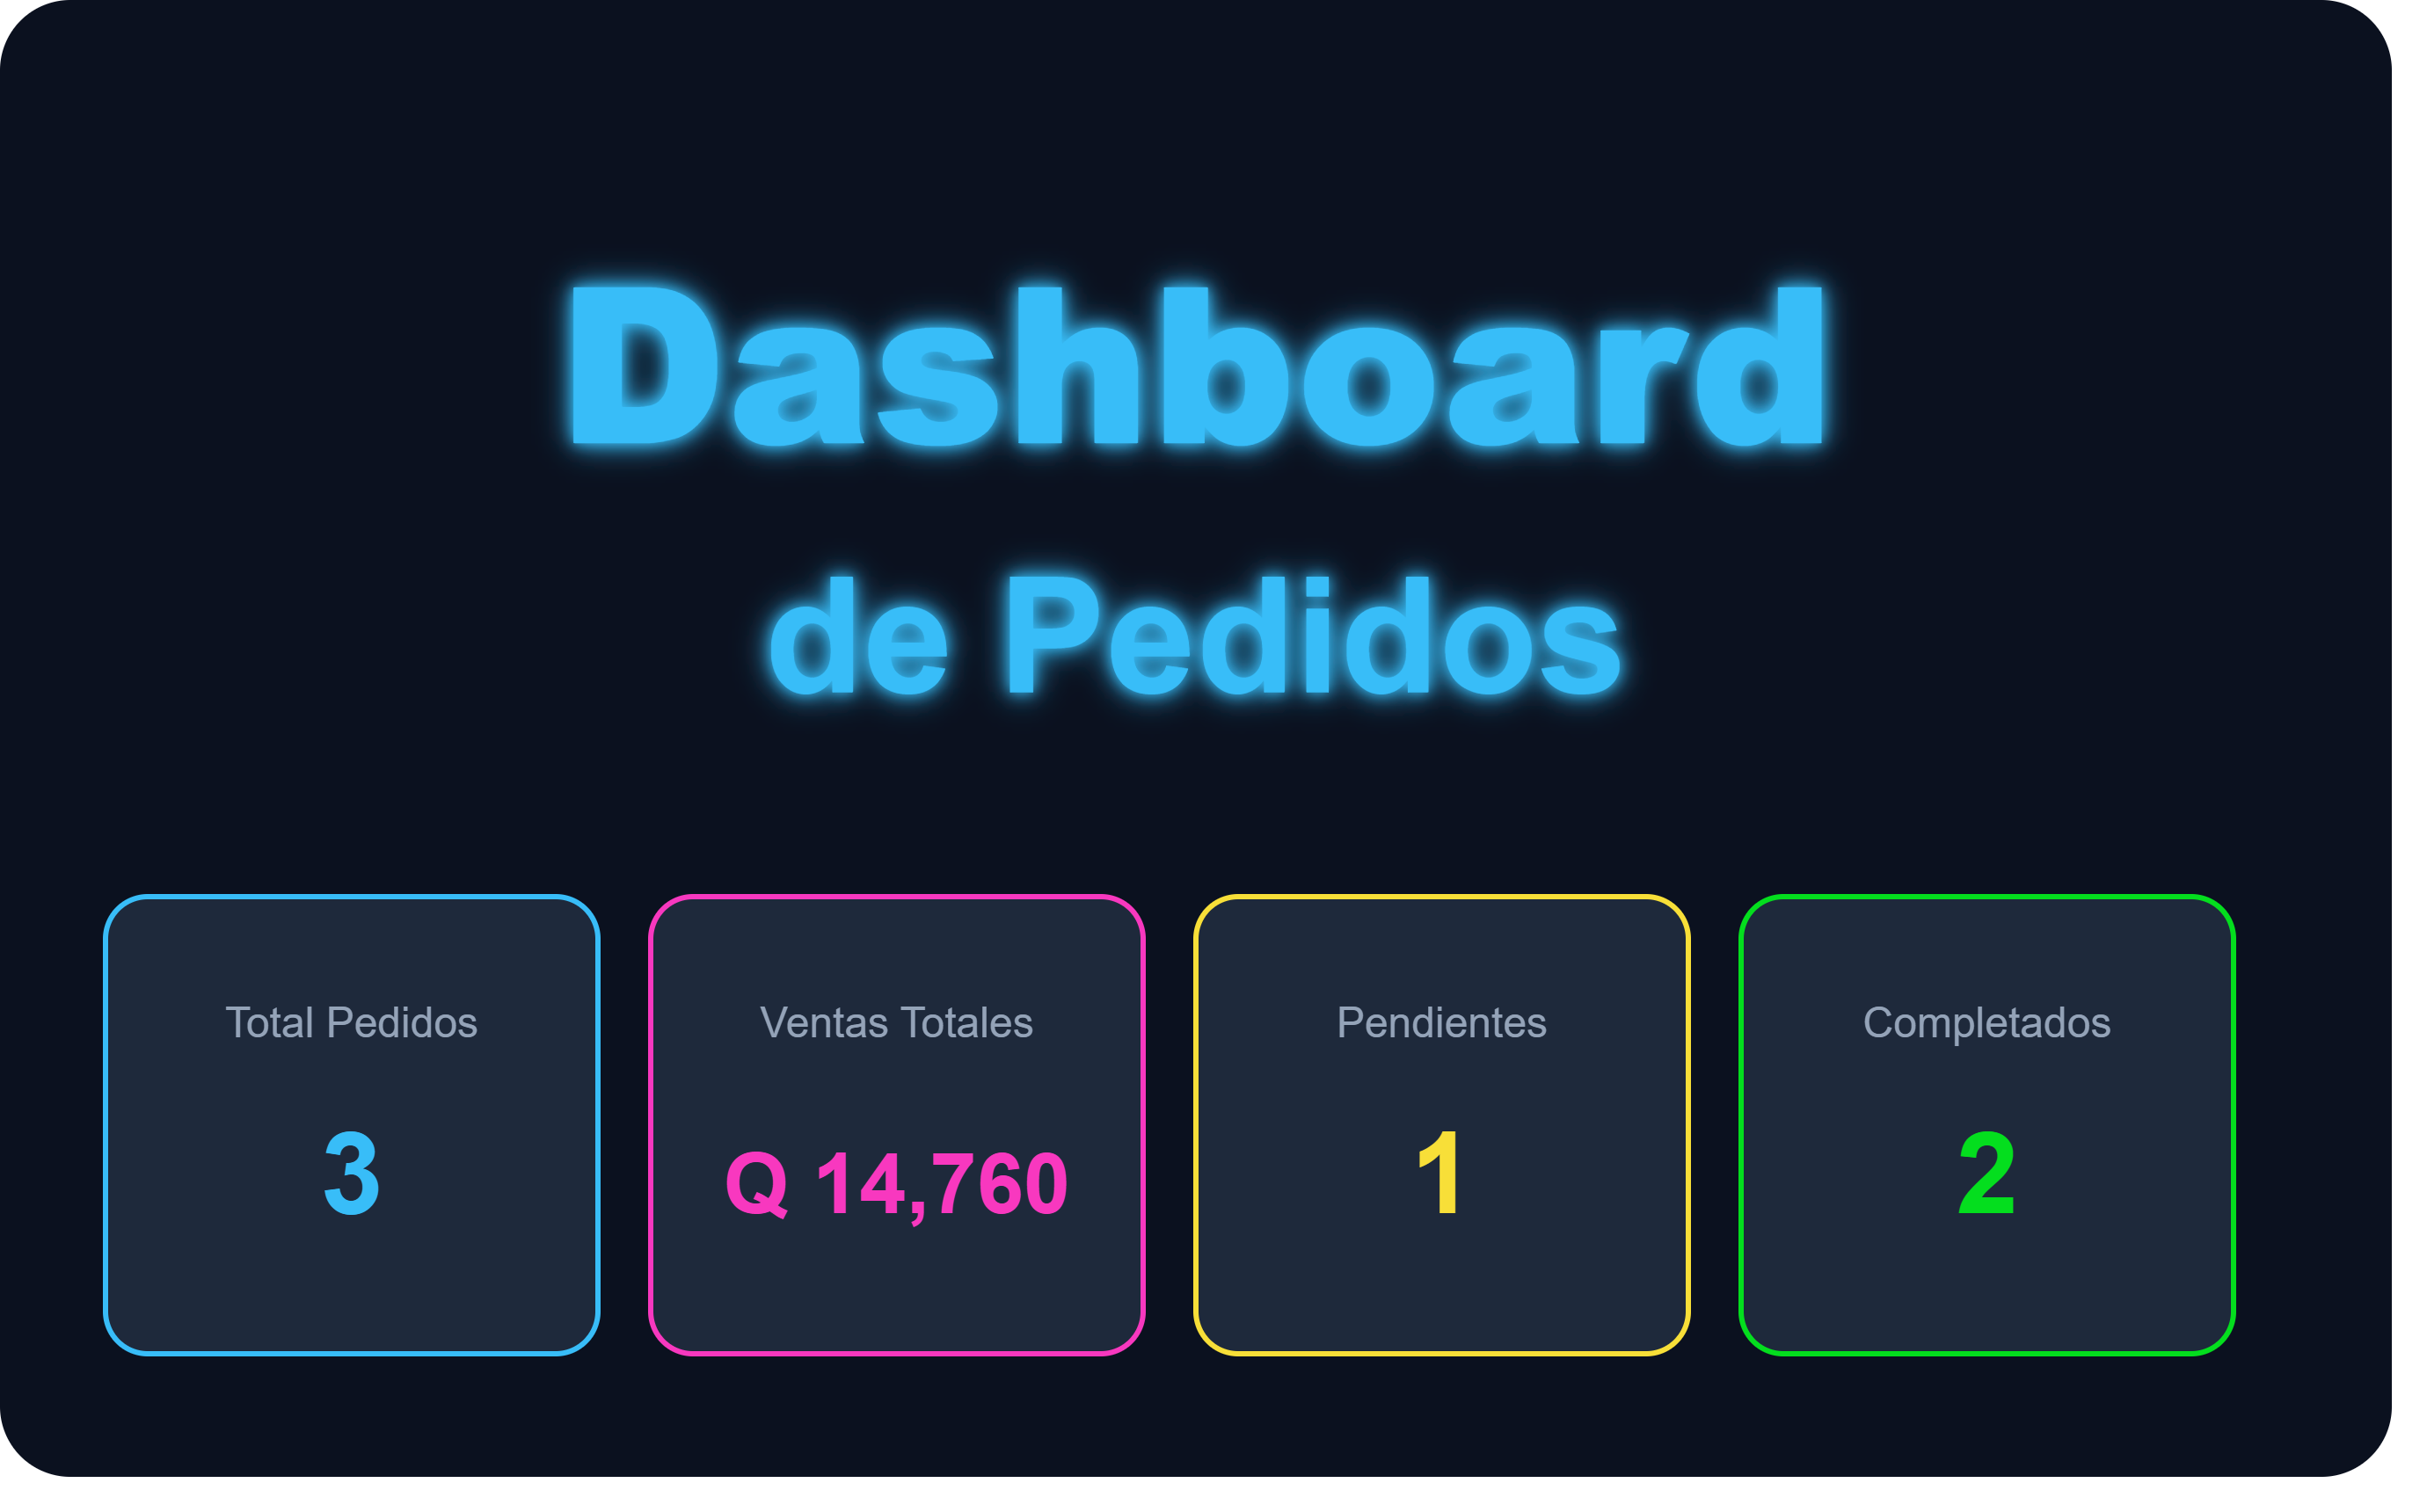
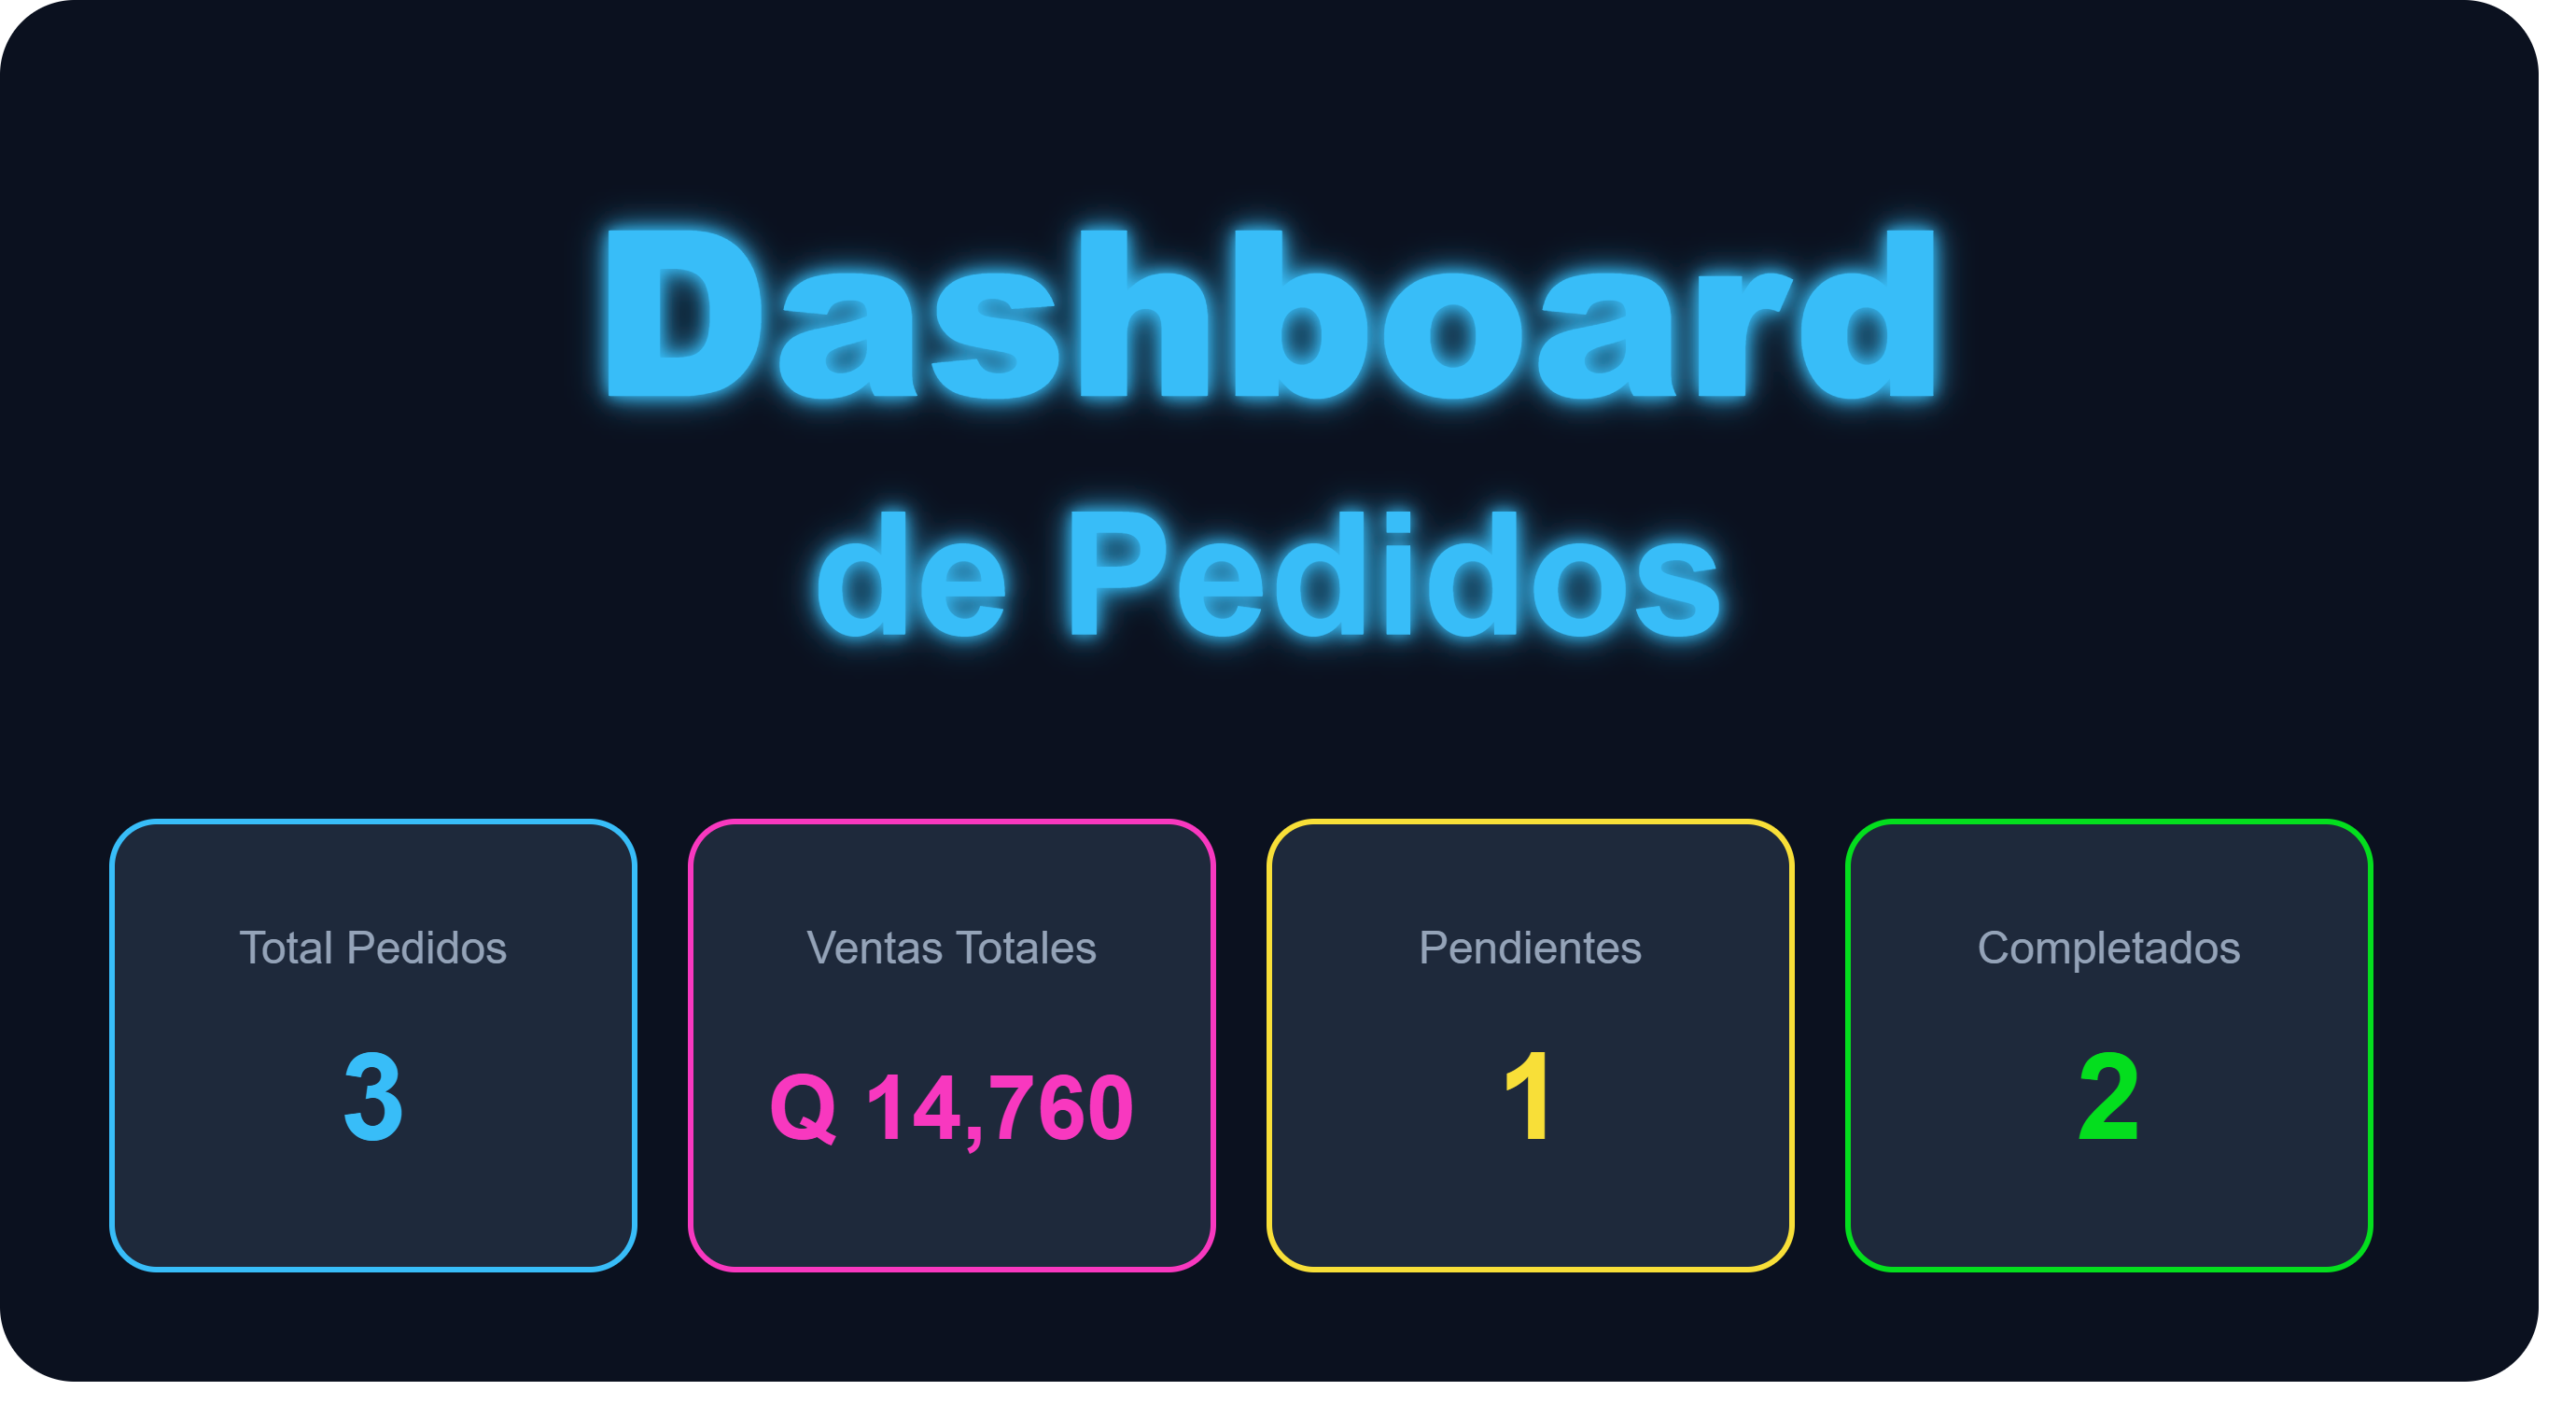
Cambio en descripcion

diff --git a/index.html b/index.html
@@ -48,23 +48,22 @@
   <header id="Inicio">
     <div>
       <h1>Daylin Yol</h1>
-      <h2>Desarrollador Web</h2>
-      <p>Formación en desarrollo Frontend y Backend, complementada con
-        <br> un enfoque autodidacta y compromiso con el aprendizaje continuo.
-        <br> Me caracterizo por ser pragmática, resiliente y proactiva, lo que me
-        <br> permite integrarme eficazmente en equipos y aportar soluciones creativas.
+      <h2>Programador Junior</h2>
+      <p>Desarrolladora de software con formación en Frontend, Backend y bases de datos,
+        <br> complementada con un enfoque autodidácta y experiencia en distintos entornos de desarrollo.
+        <br> Me caracterizo por ser pragmática, resiliente y proactiva, integrándome
+        <br> eficazmente en equipos y aportando soluciones creativas.
       </p>
 
       <div class="btn-Redes">
+         <a href="https://github.com/DaylinYP">
+          <button type="button"><i class="bi bi-github"></i></button>
+        </a>
         <a href="mailto:[email redacted]">
           <button type="button"><i class="bi bi-envelope-check-fill"></i> [email redacted]</button>
         </a>
         <a href="https://wa.me/41276261" target="_blank">
           <button type="button"><i class="bi bi-whatsapp"></i></button>
-        </a>
-
-        <a href="https://github.com/DaylinYP">
-          <button type="button"><i class="bi bi-github"></i></button>
         </a>
       </div>
     </div>
@@ -242,8 +241,11 @@
 
   <!--PIE DE PAGINA-->
   <footer id="Contacto">
-    <h4>Daylin Yol 2025</h4>
+    <h4>Daylin Yol 2026</h4>
     <div class="btn-Redes">
+       <a href="https://github.com/DaylinYP">
+        <button type="button"><i class="bi bi-github"></i></button>
+      </a>
       <a href="mailto:[email redacted]">
         <button type="button"><i class="bi bi-envelope-check-fill"></i> [email redacted]</button>
       </a>
@@ -251,9 +253,7 @@
         <button type="button"><i class="bi bi-whatsapp"></i></button>
       </a>
 
-      <a href="https://github.com/DaylinYP">
-        <button type="button"><i class="bi bi-github"></i></button>
-      </a>
+
     </div>
   </footer>
 